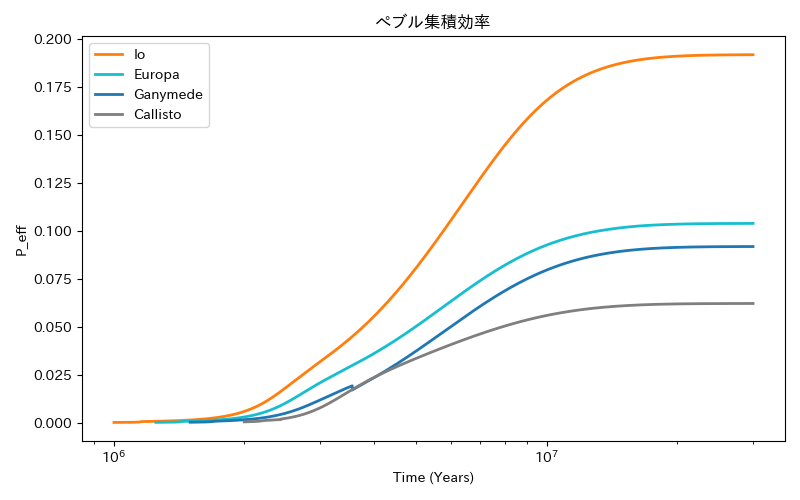
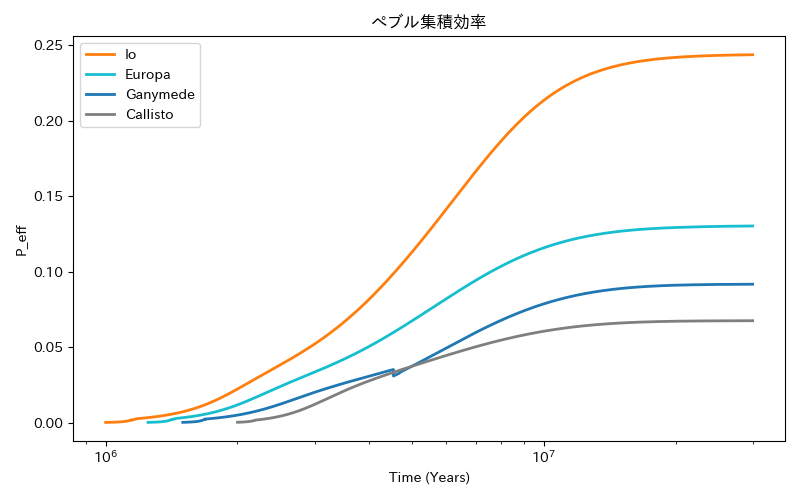
gallilean_central_flux.pyの木星の光度関数の調整、および大気構造の追加

diff --git a/gallilean_central_flax.py b/gallilean_central_flax.py
@@ -1,6 +1,7 @@
 import numpy as np
 import matplotlib.pyplot as plt
 import math
+import scipy.integrate as integrate
 from scipy.optimize import newton
 
 plt.rcParams['font.family'] = 'IPAexGothic'
@@ -58,15 +59,15 @@ def calculate_mdot_g(t, t_gap):
 
 # 木星の光度 L_cp [erg/s] を時間発展で計算する関数
 def calculate_L_cp(t, t_gap):
-    t_dep = 3.0e6
-    L_gap = 3.0e-3 * L_sun      # ギャップ形成時の光度
-    L_end = 1.0e-5 * L_sun      # ガス枯渇時の光度
+    t_end = 3.0e7
+    L_gap = 1.5e-5 * L_sun      # ギャップ形成時の光度
+    L_end = 3.0e-7 * L_sun      # 計算終了時(t = 30Myr)の光度
     
     if t <= t_gap:
         return L_gap
     elif t >= t_gap:
         # 冷却モデルに合わせて対数スケール（指数関数的）で滑らかに減少させる
-        log_L = math.log10(L_gap) + (t - t_gap) / (t_dep - t_gap) * (math.log10(L_end) - math.log10(L_gap))
+        log_L = math.log10(L_gap) + (t - t_gap) / (t_end - t_gap) * (math.log10(L_end) - math.log10(L_gap))
         return 10**log_L
     
 
@@ -438,6 +439,35 @@ def calculate_P_eff(mu_s, delta_v, v_K, st_p, eta, h_p):
     P_eff = (term1_inner**-2 + term2_inner**-2)**-0.5
     return P_eff
 
+# 衛星が保持する大気質量 (M_atm) を計算する関数
+def calculate_atmosphere_mass(M_s, R_s, M_cp_kg, r_orb, c_s, rho_g):
+    # ボンディ半径とヒル半径の計算
+    R_B = (G * M_s) / (c_s**2)
+    R_H = r_orb * (M_s / (3.0 * M_cp_kg))**(1/3)
+
+    # 大気の上端は小さい方を採用
+    R_out = min(R_B, R_H)
+
+    # 衛星半径がR_outを上回っている場合は大気は存在できない
+    if R_out <= R_s:
+        return 0.0, R_out, R_B
+
+    def density_profile(r):
+        # 静水圧平衡による指数部の計算
+        exponent = (G * M_s / c_s**2) * ((1.0 / r) - (1.0 / R_out))
+        # オーバーフロー防止
+        if exponent > 700:
+            exponent = 700
+        return rho_g * np.exp(exponent)
+
+    def integrand(r):
+        return 4.0 * np.pi * (r**2) * density_profile(r)
+
+    # R_s から R_out まで数値積分
+    mass_atm, _ = integrate.quad(integrand, R_s, R_out)
+
+    return mass_atm, R_out, R_B
+
 # ニュートン法による厳密解
 def calculate_Ts_strict(rho_s, C_p, dRs_dt, M_dot_s, u_i, R_s, T_d):
     heating_flux = (M_dot_s * u_i**2) / (8 * np.pi * R_s**2)
@@ -468,6 +498,13 @@ class Satellite:
         self.history_t, self.history_Rs, self.history_r, self.history_Ts = [], [], [], []
         self.history_b_t1, self.history_T_d, self.history_P_eff, self.history_st_p = [], [], [], []
         self.history_u_i, self.history_q, self.history_P = [], [], []
+        self.history_M_cp , self.history_v_ad ,self.history_t_ad = [], [], []
+        self.history_R_B = []  # ★ 追加: ボンディ半径の履歴
+        self.history_M_atm = []
+        self.history_R_out = []
+        self.history_R_B = []
+        self.history_P_surf = []
+
 # シミュレーションの初期設定
 t_year = 1.0e6             # イオが捕獲される時間からスタート
 dt_year = 1000.0            # タイムステップ
@@ -483,6 +520,8 @@ fixed_history_T_sun = []
 
 history_disk_mass_t = []
 history_disk_mass = []
+history_M_cp = []
+history_M_dot_g = []
 
 # 4つの衛星（シード）を定義（Shibaike et al. 2019 に基づく時間差）
 satellites = [
@@ -506,6 +545,8 @@ while t_year <= t_max_year:
     current_disk_mass = calculate_disk_mass(M_cp_kg, M_dot_g_kg_s, alpha, r_gg, L_cp)
     history_disk_mass_t.append(t_year)
     history_disk_mass.append(current_disk_mass)
+    history_M_cp.append(M_cp_MJ)
+    history_M_dot_g.append(M_dot_g_kg_s)
 
 # 指定した固定軌道における各温度成分を計算して記録
     p_fix, q_fix = calculate_p_q(M_cp_kg, M_dot_g_kg_s, target_fixed_r, alpha, r_gg, L_cp)
@@ -573,7 +614,22 @@ while t_year <= t_max_year:
         rho_g = Sigma_g / (np.sqrt(2.0 * np.pi) * H_g)
         P =rho_g * c_s**2
         St_s = calculate_satellite_stokes_number(C_D, sat.rho_s, sat.R_s, rho_g, eta, v_K, Omega_K)
+
+ # --- 追加: 大気質量と半径の計算 ---
+        M_atm, R_out, R_B = calculate_atmosphere_mass(sat.M_s, sat.R_s, M_cp_kg, sat.r_orb, c_s, rho_g)
+        St_s = calculate_satellite_stokes_number(C_D, sat.rho_s, sat.R_s, rho_g, eta, v_K, Omega_K)
         
+        # ★ 追加: 表面大気圧の計算 (P_surf = rho(R_s) * c_s^2)
+        if R_out > sat.R_s:
+            # 表面での指数部を計算
+            exponent = (G * sat.M_s / c_s**2) * ((1.0 / sat.R_s) - (1.0 / R_out))
+            exponent = min(exponent, 700) # オーバーフロー防止
+            rho_surf = rho_g * np.exp(exponent)
+            P_surf_cgs = rho_surf * c_s**2  # 単位は dyn/cm^2
+        else:
+            P_surf_cgs = 0.0 # ボンディ半径が衛星半径より小さい場合は大気なし
+        
+
         
         # 2. 画像の数式に基づく動粘性係数 ν と 熱拡散係数 χ
         nu = alpha * c_s * H_g
@@ -590,7 +646,8 @@ while t_year <= t_max_year:
         
         # 5. 従来の固定値(b_t1)の代わりに beta を使って v_t1 を計算
         v_t1 = calculate_v_t1(b_t1, sat.M_s, M_cp_kg, Sigma_g, sat.r_orb, v_K, c_s)
-        
+        v_ad = calculate_v_ad(st_p, eta, v_K)
+
         # 最終的な移動速度
         v_mig = calculate_v_ad(St_s, eta, v_K) + v_t1
         u_i = calculate_u_i(G, sat.M_s, sat.R_s, delta_v, st_p, Omega_K)
@@ -608,6 +665,15 @@ while t_year <= t_max_year:
         sat.next_u_i = u_i
         sat.next_q = q
         sat.next_P = P
+        sat.next_v_ad = v_ad
+        sec_per_year = 365.25 * 24 * 3600
+        sat.next_t_ad = abs(sat.r_orb / v_ad) / sec_per_year
+        # ★ 追加: ボンディ半径の計算
+        sat.next_R_B = (G * sat.M_s) / (c_s**2)
+        sat.next_M_atm = M_atm
+        sat.next_R_out = R_out
+        sat.next_R_B = R_B
+        sat.next_P_surf = P_surf_cgs
 
     # --- ② 軌道共鳴チェック（内側の衛星から外側へ順番に判定） ---
     active_sats.sort(key=lambda s: s.r_orb)
@@ -641,6 +707,13 @@ while t_year <= t_max_year:
         sat.history_u_i.append(sat.next_u_i)
         sat.history_q.append(sat.next_q)
         sat.history_P.append(sat.next_P)
+        sat.history_v_ad.append(sat.next_v_ad)
+        sat.history_t_ad.append(sat.next_t_ad)
+        sat.history_R_B.append(sat.next_R_B / 100000.0)
+        # --- 追加: 大気関連データの記録 ---
+        sat.history_M_atm.append(sat.next_M_atm)
+        sat.history_R_out.append(sat.next_R_out / 100000.0)  # km単位に変換
+        sat.history_P_surf.append(sat.next_P_surf / 10.0)    # ★ 追加: dyn/cm^2 から Pa に変換
     t_year += dt_year
 
 # ==========================================
@@ -844,6 +917,181 @@ plt.title('周木星円盤のガス総質量の時間進化')
 plt.xscale('log')
 plt.yscale('log')  # 質量も大きく変化するため対数スケールが見やすいです
 plt.tight_layout()
-plt.savefig("disk_mass_evolution.png")
+plt.savefig("disk_mass_evolution_central_flux.png")
 plt.close()
 
+# --- 追加: 円盤ガス流入率の推移 ---
+plt.figure(figsize=(8, 5))
+# kg/s で記録されているものを、M_J/yr に変換したリストを作成
+# (1年は約 3.154e7 秒、木星質量は M_J グラム)
+
+sec_per_year = 365.25 * 24 * 3600 *1.0e6
+M_dot_g_MJ_yr = [(val * sec_per_year) / M_J for val in history_M_dot_g]
+
+plt.plot(history_disk_mass_t, M_dot_g_MJ_yr, color='tab:purple', linewidth=2)
+plt.ylabel('M_dot_g($M_J$/year)', fontsize=14)
+plt.xlabel('Time (Myr)', fontsize=14)
+plt.title('gas flux evolution', fontsize=16)
+# ★ 追加: X軸の目盛り（位置とテキスト）を明示的に指定する
+ticks_positions = [1e6, 3e6, 1e7, 3e7]
+ticks_labels = ['1', '3', '10', '30']
+plt.xticks(ticks_positions, ticks_labels, fontsize=12)
+plt.tight_layout()
+plt.savefig("disk_gas_flux_central_flux.png")
+plt.close()
+
+# --- 追加: 木星質量の推移 ---
+plt.figure(figsize=(8, 5))
+plt.plot(history_disk_mass_t, history_M_cp, color='tab:purple', linewidth=2)
+plt.ylabel('Jupiter Mass ($M_J$)', fontsize=14)
+plt.xlabel('Time (Myr)', fontsize=14)
+plt.title('Jupiter Mass evolution', fontsize=16)
+# ★ 追加: X軸の目盛り（位置とテキスト）を明示的に指定する
+ticks_positions = [1e6, 3e6, 1e7, 3e7]
+ticks_labels = ['1', '3', '10', '30']
+plt.xticks(ticks_positions, ticks_labels, fontsize=12)
+plt.tight_layout()
+plt.savefig("jupiter_mass_evolution_central_flux.png")
+plt.close()
+"""
+# --- 追加: 円盤内の軌道半径に対するぺブル移動時間とストークス数 (空間分布) ---
+fig, ax1 = plt.subplots(figsize=(8, 5))
+ax2 = ax1.twinx()  # 右側のY軸（St_p用）を作成
+
+snapshot_times = [1.0e6, 2.0e6]
+colors_snap = ['tab:blue', 'tab:orange']
+
+# 1 R_J から 50 R_J まで
+r_array_RJ = np.logspace(0, np.log10(50), 100)
+r_array = r_array_RJ * R_J
+
+for t_snap, col in zip(snapshot_times, colors_snap):
+    M_cp_MJ = calculate_M_cp(t_snap, t_gap)
+    M_cp_kg = M_cp_MJ * M_J
+    M_dot_g_kg_s = calculate_mdot_g(t_snap, t_gap) * M_J / (365.25 * 24 * 3600)
+    M_dot_p_base = x * M_dot_g_kg_s
+
+
+    t_ad_list = []
+    st_p_list = []
+    valid_r_RJ = []
+
+    for r_val in r_array:
+        p, q = calculate_p_q(M_cp_kg, M_dot_g_kg_s, r_val, alpha, r_gg L_cp)
+        T_d, Sigma_g = calculate_disk_structure(M_cp_kg, M_dot_g_kg_s, r_val, alpha, r_gg, L_cp, q_guess=q)
+
+        if np.isnan(T_d):
+            continue
+
+        local_M_dot_p = M_dot_p_base * 0.5 if T_d >= 160.0 else M_dot_p_base
+        eta, _ = calculate_eta(M_cp_kg, M_dot_g_kg_s, r_val, alpha, r_gg)
+        st_p = calculate_st_p(p, q, local_M_dot_p, M_dot_g_kg_s, alpha, T_d, M_cp_kg, r_val, eta, frag_limit=False)
+        v_K = np.sqrt(G * M_cp_kg / r_val)
+        v_r_p = -2.0 * (st_p / (st_p**2 + 1.0)) * eta * v_K
+
+        if v_r_p == 0:
+            continue
+
+        t_ad_sec = abs(r_val / v_r_p)
+        t_ad_yr = t_ad_sec / (365.25 * 24 * 3600)
+
+        t_ad_list.append(t_ad_yr)
+        st_p_list.append(st_p)
+        valid_r_RJ.append(r_val / R_J)
+
+    ax1.plot(valid_r_RJ, t_ad_list, label=f't_ad ({t_snap/1e6:.1f} Myr)', color=col, linewidth=2, linestyle='-')
+    ax2.plot(valid_r_RJ, st_p_list, label=f'St_p ({t_snap/1e6:.1f} Myr)', color=col, linewidth=2, linestyle=':')
+
+# ★ 修正: 赤点線（plt.axhline）を削除しました
+
+ax1.set_ylabel('Pebble Migration Timescale (Years)', fontsize=14)
+ax2.set_ylabel('St_p', fontsize=14)
+ax1.set_xlabel('Orbital Radius ($R_J$)', fontsize=14)
+plt.title('Pebble Migration Timescale', fontsize=16)
+
+ax1.set_xscale('log')
+ax1.set_yscale('log')
+ax2.set_yscale('log')
+
+ax1.set_xticks([1, 2, 5, 10, 20, 50])
+ax1.set_xticklabels(['1', '2', '5', '10', '20', '50'], fontsize=12)
+
+lines_1, labels_1 = ax1.get_legend_handles_labels()
+lines_2, labels_2 = ax2.get_legend_handles_labels()
+ax1.legend(lines_1 + lines_2, labels_1 + labels_2, fontsize=10, loc='lower right')
+
+plt.tight_layout()
+plt.savefig("pebble_migration_time_vs_r_central_flux.png")
+plt.close()
+"""
+# --- 追加: ボンディ半径と衛星半径の比較 (大気獲得判定) ---
+plt.figure(figsize=(10, 6))
+for i, sat in enumerate(satellites):
+    if len(sat.history_t) > 0:
+        # 衛星半径 R_s を実線でプロット
+        plt.plot(sat.history_t, sat.history_Rs, color=colors[i], linestyle='-', linewidth=2, label=f"{sat.name} (R_s)")
+        # ボンディ半径 R_B を点線でプロット
+        plt.plot(sat.history_t, sat.history_R_B, color=colors[i], linestyle=':', linewidth=2, label=f"{sat.name} (R_B)")
+
+plt.ylabel('Radius (km)', fontsize=14)
+plt.xlabel('Time (Years)', fontsize=14)
+plt.title('ボンディ半径と衛星半径の進化 (大気獲得条件: R_B > R_s)', fontsize=16)
+
+# 距離の差が大きいため対数スケールに設定
+plt.yscale('log')
+plt.xscale('log')
+
+# X軸の目盛りを見やすく整理
+ticks_positions = [1e6, 3e6, 1e7, 3e7]
+ticks_labels = ['1', '3', '10', '30']
+plt.xticks(ticks_positions, ticks_labels, fontsize=12)
+
+# 凡例を外側に配置
+plt.legend(bbox_to_anchor=(1.05, 1), loc='upper left', borderaxespad=0.)
+plt.tight_layout()
+plt.savefig("radius_comparison_atmosphere_central_flux.png")
+plt.close()
+
+# --- 追加: 衛星の大気質量 (M_atm) と質量比の進化 ---
+plt.figure(figsize=(10, 6))
+for i, sat in enumerate(satellites):
+    if len(sat.history_t) > 0:
+        # 大気質量の絶対値 (g) をプロット
+        plt.plot(sat.history_t, sat.history_M_atm, color=colors[i], linestyle='-', linewidth=2, label=f"{sat.name} (Mass [g])")
+
+plt.ylabel('Atmosphere Mass (g)', fontsize=14)
+plt.xlabel('Time (Years)', fontsize=14)
+plt.title('衛星が獲得した大気質量の進化', fontsize=16)
+plt.yscale('log')
+plt.xscale('log')
+plt.xticks(ticks_positions, ticks_labels, fontsize=12)
+plt.legend(bbox_to_anchor=(1.05, 1), loc='upper left', borderaxespad=0.)
+plt.tight_layout()
+plt.savefig("atmosphere_mass_evolution_central_flux.png")
+plt.close()
+
+# --- 追加: 衛星の地表面気圧 (P_surf) の進化 ---
+plt.figure(figsize=(10, 6))
+for i, sat in enumerate(satellites):
+    if len(sat.history_t) > 0:
+        # 気圧 (Pa) をプロット
+        plt.plot(sat.history_t, sat.history_P_surf, color=colors[i], linestyle='-', linewidth=2, label=f"{sat.name}")
+
+plt.ylabel('Surface Pressure (Pa)', fontsize=14)
+plt.xlabel('Time (Years)', fontsize=14)
+plt.title('衛星の地表面気圧の進化', fontsize=16)
+
+# 気圧の変化が大きいため対数スケールに設定
+plt.yscale('log')
+plt.xscale('log')
+
+# 目盛りの設定 (既存のticks_positions, ticks_labelsを利用)
+plt.xticks(ticks_positions, ticks_labels, fontsize=12)
+
+# 地球の1気圧 (約101325 Pa) に参考線を引く
+plt.axhline(y=101325, color='gray', linestyle='--', linewidth=1, label='1 atm (Earth)')
+
+plt.legend(bbox_to_anchor=(1.05, 1), loc='upper left', borderaxespad=0.)
+plt.tight_layout()
+plt.savefig("surface_pressure_evolution_central_flux.png")
+plt.close()
